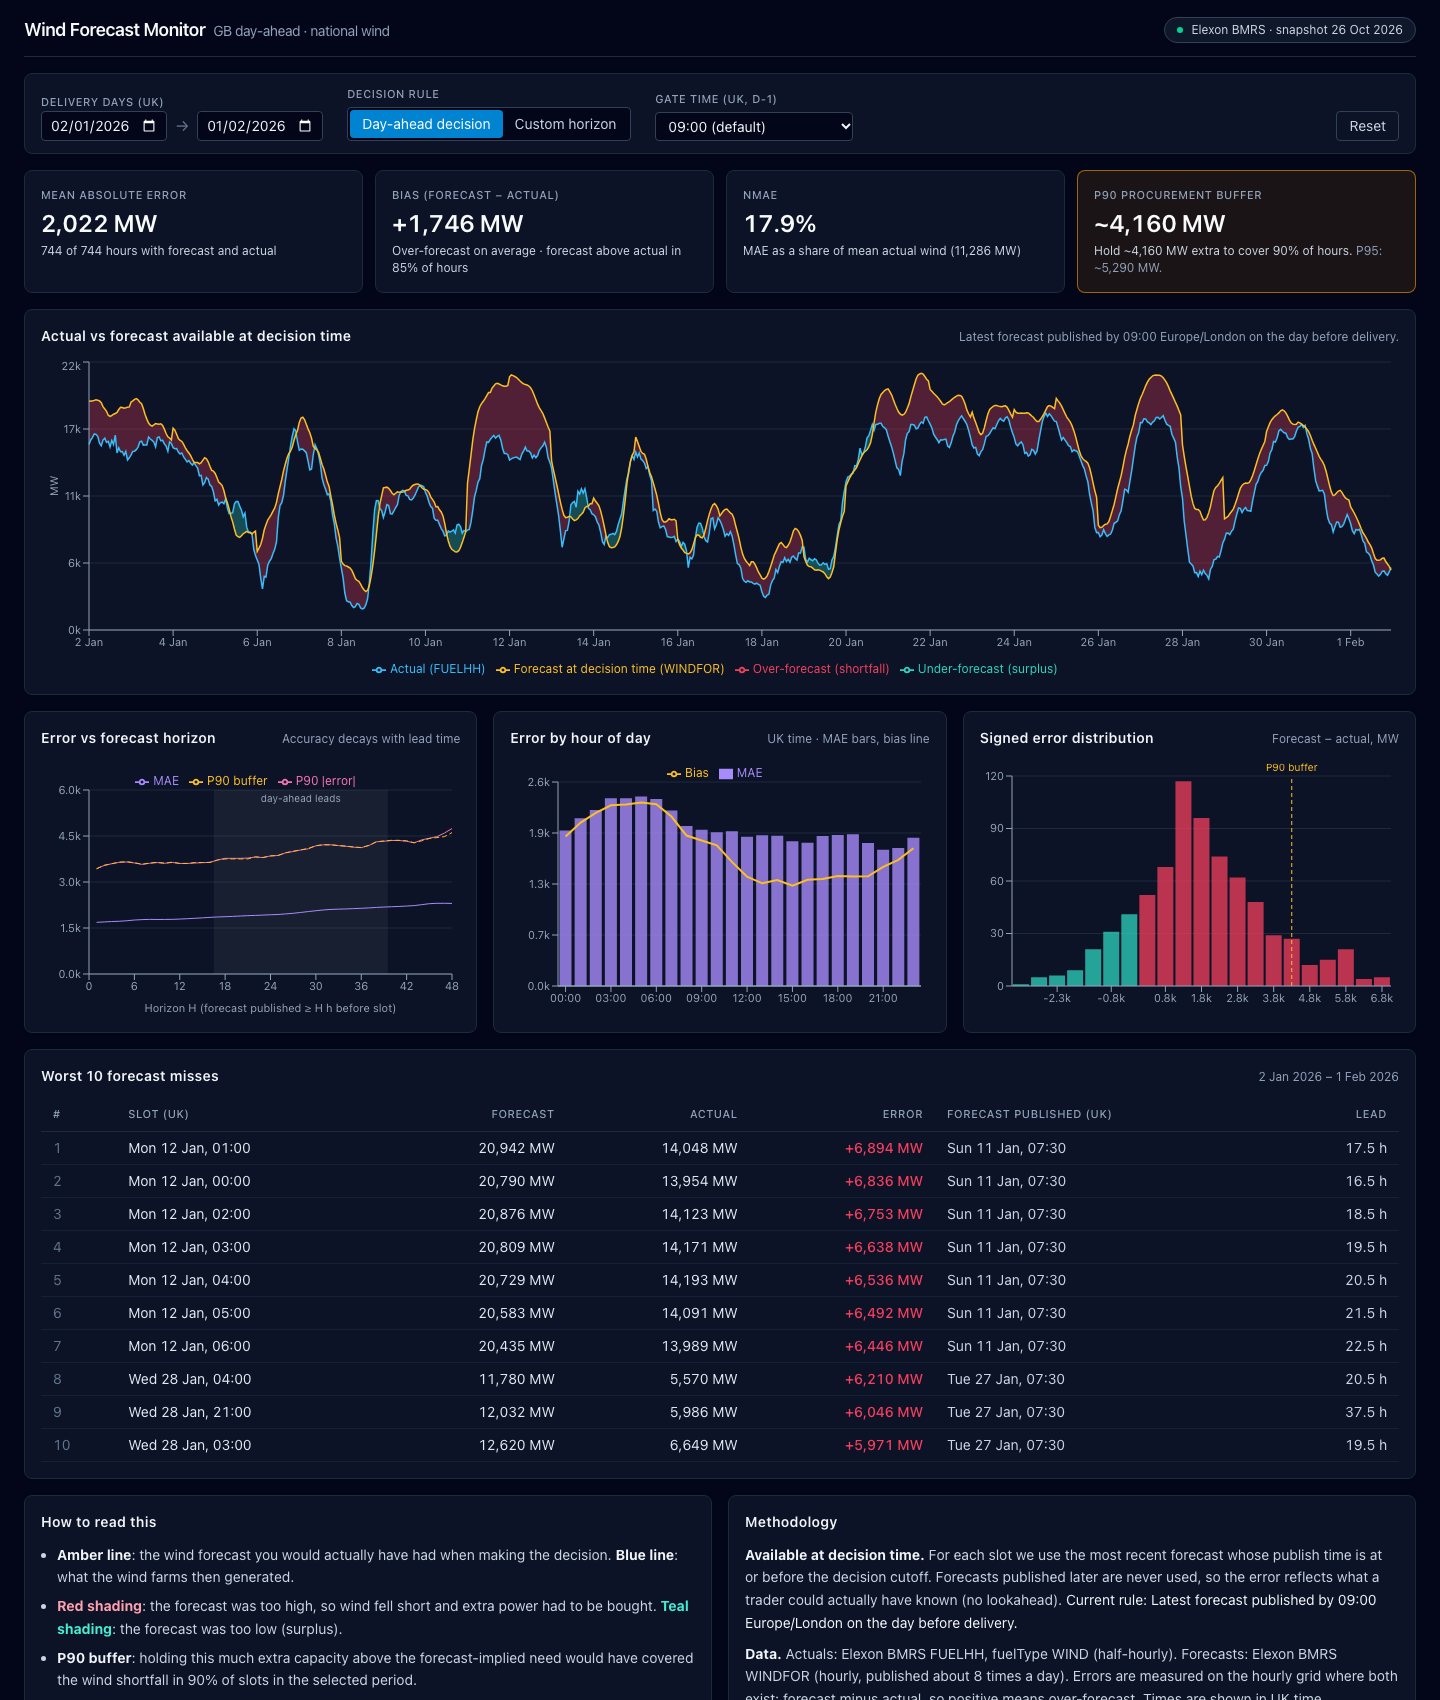
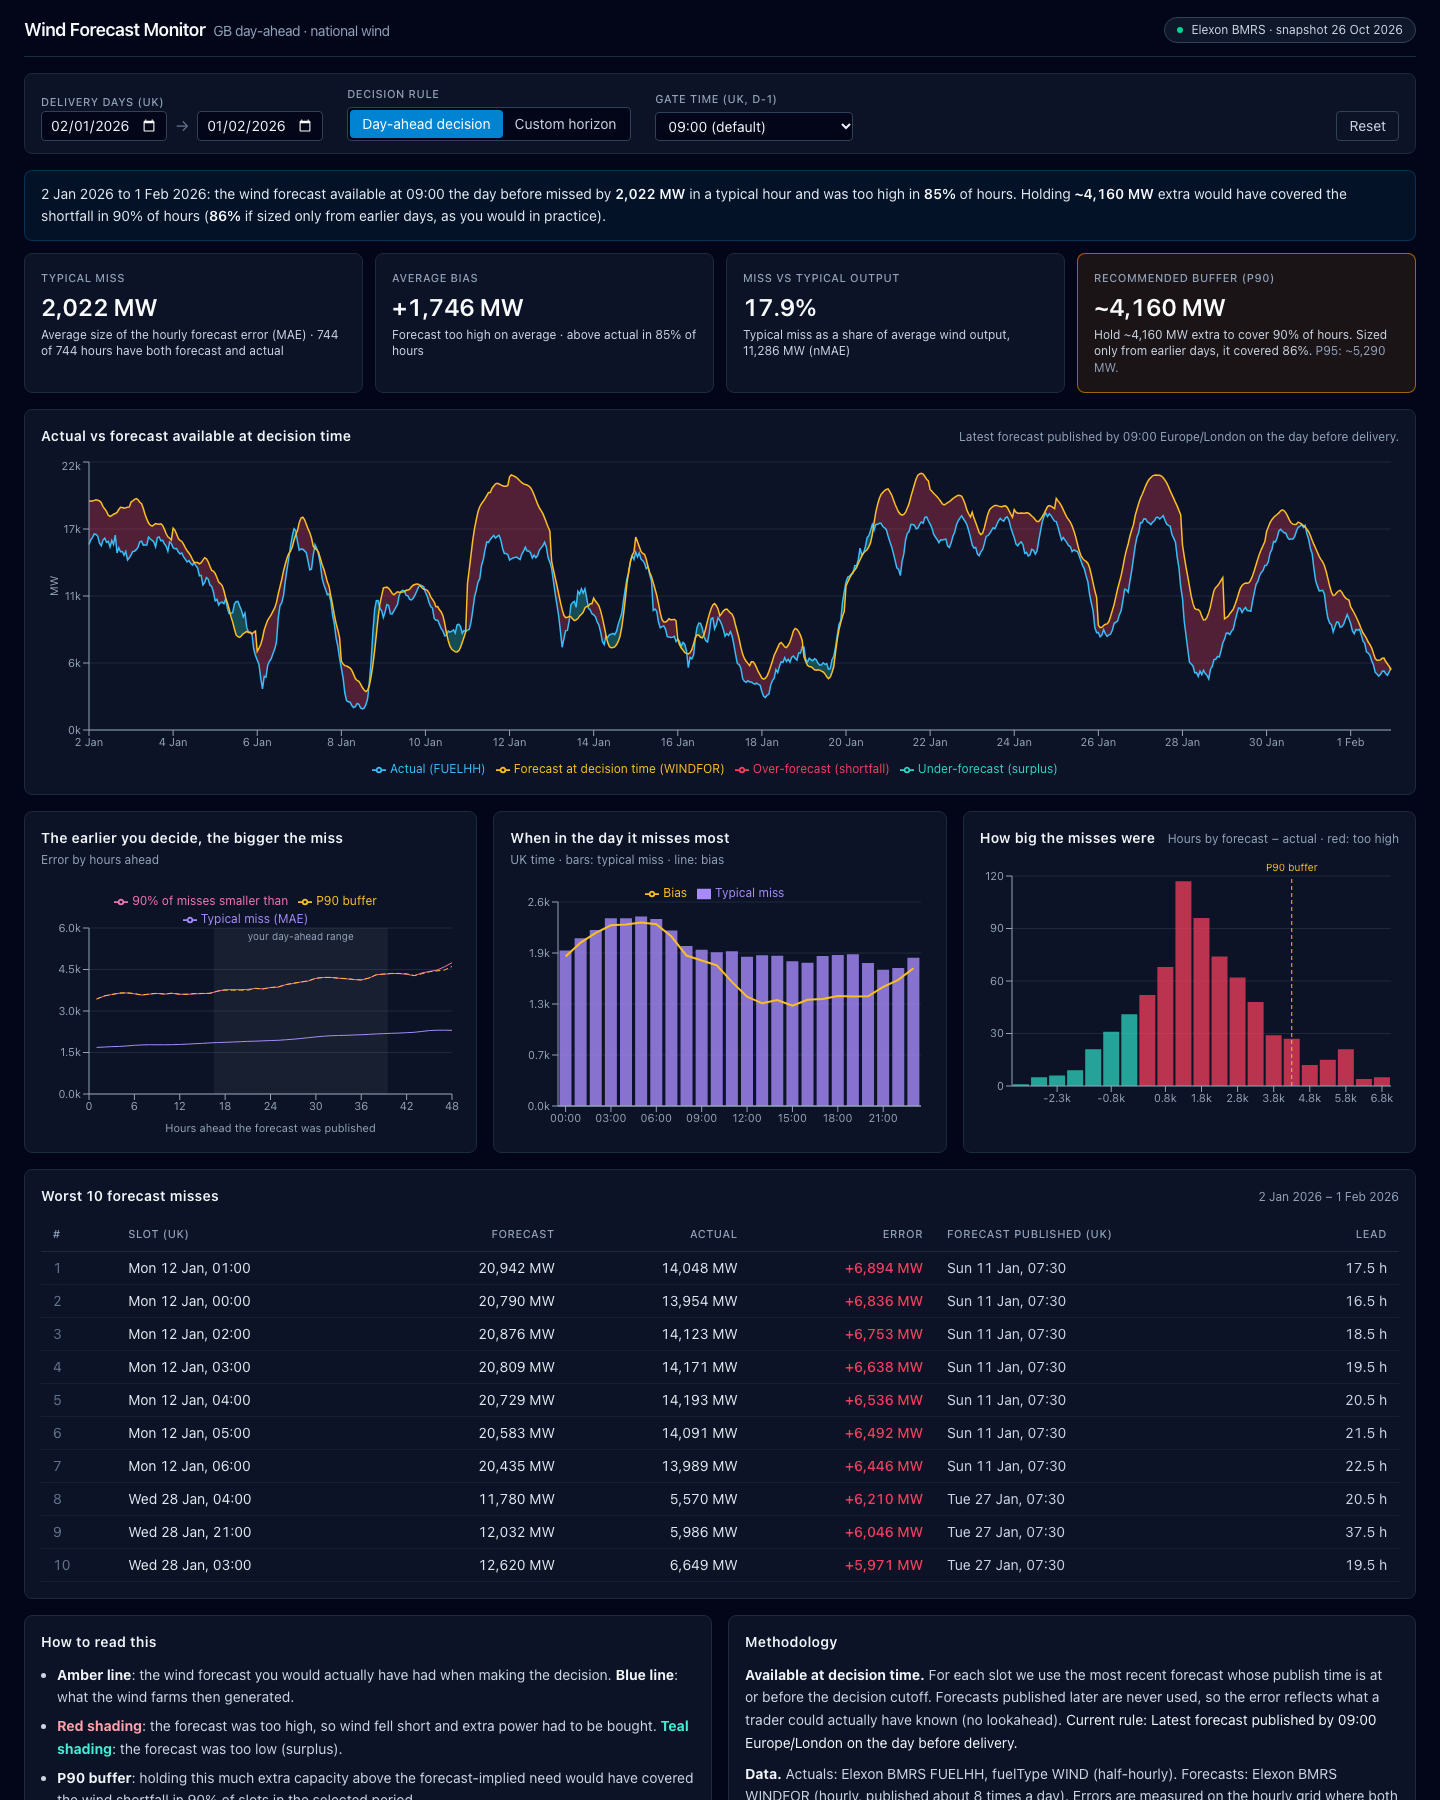
CI drift checks, Python version guard, docs for review fixes
- CI fails if backend/openapi.json or frontend schema.ts are stale.
- make setup stops early with a clear message on Python < 3.12.
- DATA_NOTES: open question on whether publishTime equals availability.
- README, ARCHITECTURE, DECISIONS updated for the walk-forward check,
  test counts and error handling; new screenshot.

diff --git a/README.md b/README.md
@@ -20,10 +20,15 @@ Delivery days 2 Jan to 1 Feb 2026, 744 hours, every hour has both a forecast and
 | Mean absolute error | **2,022 MW**, on an average output of 11,286 MW (nMAE 17.9%) |
 | Bias | **+1,746 MW**: the forecast was above outturn in 85% of hours; only 4 of 31 days averaged below |
 | P90 / P95 buffer | **~4,160 MW / ~5,290 MW** above the forecast-implied need |
+| Buffer tested forward | Sized each day from earlier days only, the P90 rule covered **86%** of hours and P95 about 90% |
 | Lead time | MAE 1,685 MW at a 1 h horizon, 1,932 MW at 24 h, 2,301 MW at 48 h |
 | Time of day | Worst 03:00 to 05:00 (MAE ~2,400 MW), best 20:00 to 22:00 (~1,750 MW) |
 | Worst hour | 12 Jan 01:00: forecast 20,942 MW, actual 14,048 MW (+6,894 MW), published 11 Jan 07:30 |
 | Gate sensitivity | Moving the gate to 09:50 (N2EX close) changes MAE only to 1,996 MW |
+
+The buffer needs care. Sized on the same month it is judged on, P90 covers 90% by
+construction; applied the way a desk would use it (each day sized only from the days
+before) it covered 86%. To actually get 90% cover going forward, use about the P95 level.
 
 The bias is the headline. An error that is positive 85% of the time is mostly a systematic
 offset, not noise, so a large share of the buffer could be removed by correcting the forecast
@@ -144,16 +149,20 @@ had to buy more. MAE, RMSE, bias and nMAE (MAE as a share of mean output) are re
 not, because wind output can be close to zero and dividing by it lets a few calm hours dominate.
 The buffer is the 90th / 95th percentile of signed error over all hours, taken as the smallest
 observed error that covers at least that share of hours, so "covered in 90% of hours" is true
-for the period shown.
+for the period shown. Because that is hindsight, the app also runs a walk-forward check: each
+delivery day gets a buffer sized only from earlier days (after a 7-day warm-up), and the
+share of hours it actually covered is shown next to the recommendation.
 
 All choices and their trade-offs are in [docs/DECISIONS.md](docs/DECISIONS.md).
 
 ## Testing and CI
 
-- **Backend:** 129 pytest tests, ~98% line coverage. The selection rule has explicit tests for a
+- **Backend:** 142 pytest tests, ~98% line coverage. The selection rule has explicit tests for a
   forecast published one minute after the cutoff, exactly at the cutoff, both 2026 UK clock
-  changes, missing data and a zero horizon. Metrics are checked against hand-computed values.
-- **Frontend:** 39 vitest / Testing Library tests for the controls, API client, URL filters,
+  changes, missing data and a zero horizon, plus an audit that re-derives every January
+  selection with a naive loop and requires an exact match. Metrics are checked against
+  hand-computed values.
+- **Frontend:** 42 vitest / Testing Library tests for the controls, API client, URL filters,
   KPI wording and chart helpers.
 - **End to end:** `make verify URL=<base-url>` checks the UI shell, every endpoint, validation
   errors, docs, cache headers, and that the deployment's numbers match a local computation.
@@ -196,5 +205,9 @@ How the output was checked:
   after the backend container moved IP. Each was fixed and the fix verified.
 - **The deployment was checked before trusting it**: a local `vercel build` showed the function
   was over Vercel's size limit, which led to removing pyarrow from the serving path.
+- **A deliberately critical review pass** re-derived every forecast selection with a naive
+  loop (no mismatches, no lookahead), and found that the headline buffer was sized with
+  hindsight. That led to the walk-forward check, plain-English labels in the UI, and JSON
+  500s that are logged with a request id.
 - **The UI was checked in a real browser** (headless Chrome screenshots at several widths),
   and `verify_deploy.sh` compares a deployment's numbers with a local computation.

diff --git a/docs/DECISIONS.md b/docs/DECISIONS.md
@@ -117,8 +117,14 @@ have no forecast at all because WINDFOR rarely reaches that far ahead; the UI sh
 - The buffer is the empirical quantile (`inverted_cdf`) of signed error over all paired slots,
   floored at zero, at 90% and 95%. That makes "buy X MW above the forecast to be covered in 90%
   of hours" literally true in-sample. Descriptive percentiles use linear interpolation.
+- Because an in-sample buffer is sized with hindsight, each level also reports a walk-forward
+  coverage: every delivery day after a 7-day warm-up gets a buffer sized only from earlier
+  days, scored on that day.
+- All shares (coverage, shortfall, walk-forward) are fractions in [0, 1].
 
-**Consequences.** January bias is large (+1,746 MW, 85% of hours over-forecast), so most of the
+**Consequences.** In January the in-sample P90 buffer (~4,160 MW) covered only 86% of hours
+when applied walk-forward, and P95 about 90%. The UI shows both numbers side by side.
+January bias is large (+1,746 MW, 85% of hours over-forecast), so most of the
 buffer is systematic rather than random. Part of it may come from WINDFOR and FUELHH covering
 different sets of wind farms. The UI states this caveat next to the numbers.
 
@@ -130,7 +136,9 @@ different sets of wind farms. The UI states this caveat next to the numbers.
 `/api/metrics/by-hour`, `/api/metrics/by-horizon`; OpenAPI docs at `/api/docs`. Unknown query
 parameters are rejected. All validation problems come back together as standard 422 errors that
 name the offending parameter. Selections and lead-time curves are LRU-cached in process.
-Hashes of the served data files are checked against the manifest at startup. Logs are one JSON object per line.
+Hashes of the served data files are checked against the manifest at startup.
+An exception inside a request is logged with its traceback and request id and returned as
+a JSON 500 (`no-store`). Incoming `X-Request-ID` values are only reused if short and plain. Logs are one JSON object per line.
 
 **Consequences.** The frontend gets typed, predictable errors; the app will not start on a
 corrupted snapshot.

diff --git a/docs/ARCHITECTURE.md b/docs/ARCHITECTURE.md
@@ -103,11 +103,12 @@ bundles `data/*.csv.gz` and `manifest.json` into the function.
 
 ## Testing
 
-- **Backend (pytest, 129 tests, ~98% coverage):** selection rule edge cases (one minute after
-  cutoff, exactly at cutoff, clock changes, missing data), metrics on hand-computed datasets,
+- **Backend (pytest, 142 tests, ~98% coverage):** selection rule edge cases (one minute after
+  cutoff, exactly at cutoff, clock changes, missing data), a lookahead audit that re-derives
+  every January selection with a naive loop, metrics on hand-computed datasets,
   normalisation on real Elexon response fixtures, client retries with mocked HTTP, API
   validation and caching, snapshot integrity.
-- **Frontend (vitest + Testing Library, 39 tests):** controls, API client error handling, URL
+- **Frontend (vitest + Testing Library, 42 tests):** controls, API client error handling, URL
   filter parsing, KPI wording, histogram binning, axis ticks.
 - **End to end:** `scripts/verify_deploy.sh` checks a running deployment and compares its
   `/api/metrics` with a local computation.

diff --git a/docs/DATA_NOTES.md b/docs/DATA_NOTES.md
@@ -195,3 +195,8 @@ from 2 Jan to 1 Feb 2026. All of January is GMT, so UK local = UTC.
    assumed to match, but this is not verified.
 6. **Rate limits:** none were documented in the spec and none were hit. Not tested beyond about
    20 requests.
+7. **Is a forecast usable at its `publishTime`?** The selection assumes a forecast can be acted
+   on from the moment it is published. If BMRS makes rows visible some minutes later, a forecast
+   published just before the gate may not have been seen in time. The 15 Jan publish at 12:25
+   suggests `publishTime` is the real release time, not a schedule slot, but this is not
+   confirmed. With the default 09:00 gate the nearest publish is 07:30, so 90 minutes of slack.
